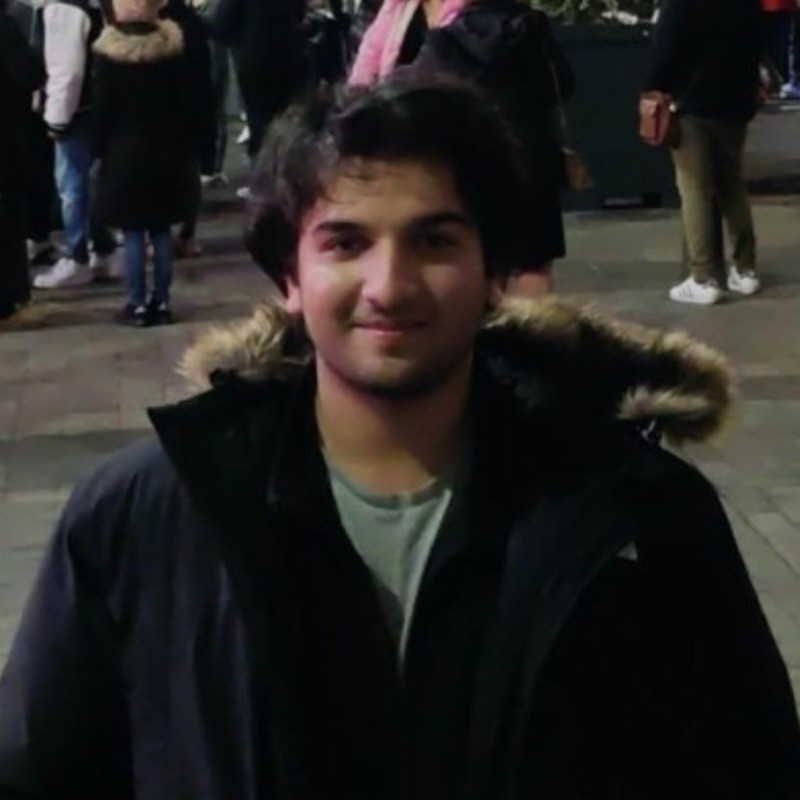
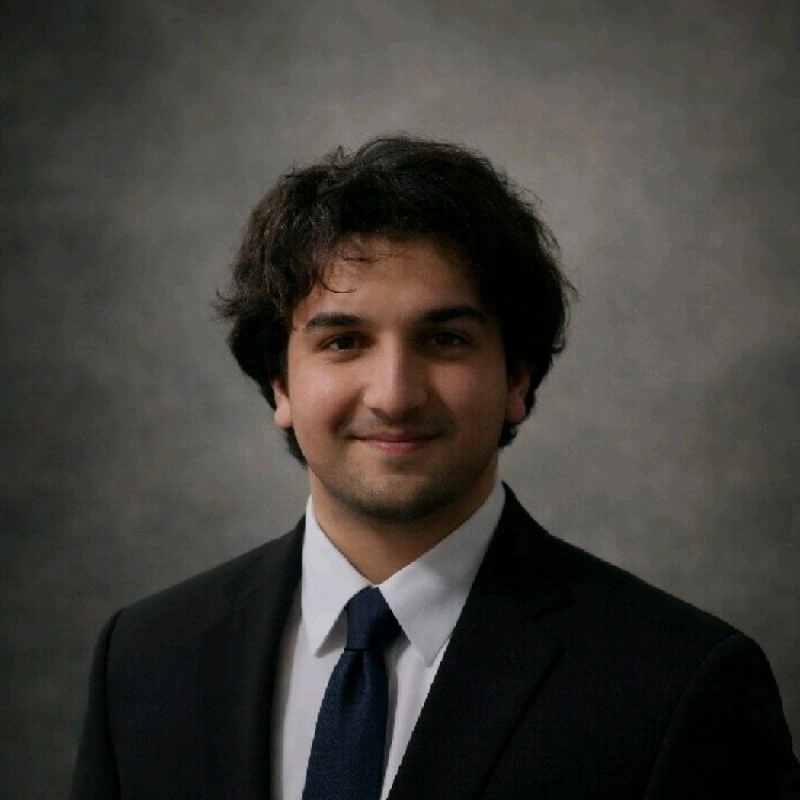
Changed pfp and removed scroll fix because bad

diff --git a/index.html b/index.html
@@ -721,46 +721,6 @@
 
 <script>
   gsap.registerPlugin(ScrollTrigger);
-  // Fix for GSAP ScrollTrigger not firing on anchor link clicks
-document.addEventListener('DOMContentLoaded', function() {
-  // Get all anchor links
-  const anchorLinks = document.querySelectorAll('a[href^="#"]');
-  
-  anchorLinks.forEach(link => {
-    link.addEventListener('click', function(e) {
-      const targetId = this.getAttribute('href');
-      
-      // Skip empty or just # anchors
-      if (!targetId || targetId === '#') return;
-      
-      const targetElement = document.querySelector(targetId);
-      
-      if (targetElement) {
-        e.preventDefault();
-        
-        // Smooth scroll to target
-        targetElement.scrollIntoView({
-          behavior: 'smooth',
-          block: 'start'
-        });
-        
-        // Refresh ScrollTrigger immediately and after scroll completes
-        // This ensures all animations trigger properly
-        if (window.ScrollTrigger) {
-          setTimeout(() => ScrollTrigger.refresh(), 100);
-          setTimeout(() => ScrollTrigger.refresh(), 800);
-        }
-      }
-    });
-  });
-  
-  // Also refresh on hash change (back/forward browser navigation)
-  window.addEventListener('hashchange', function() {
-    if (window.ScrollTrigger) {
-      setTimeout(() => ScrollTrigger.refresh(), 100);
-    }
-  });
-});
 </script>
 
   <script>
